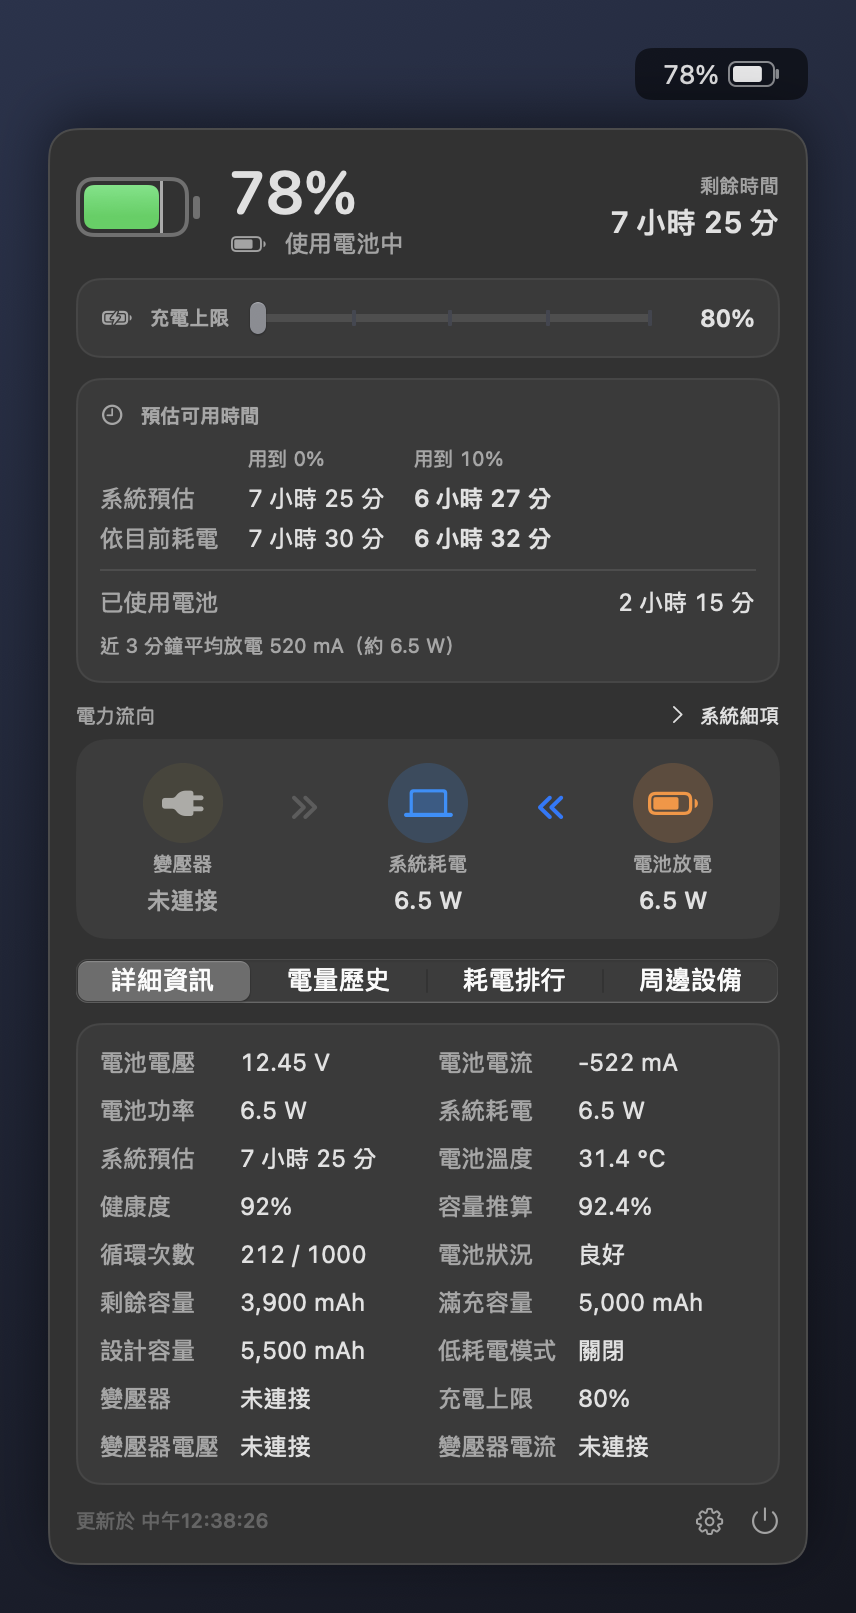
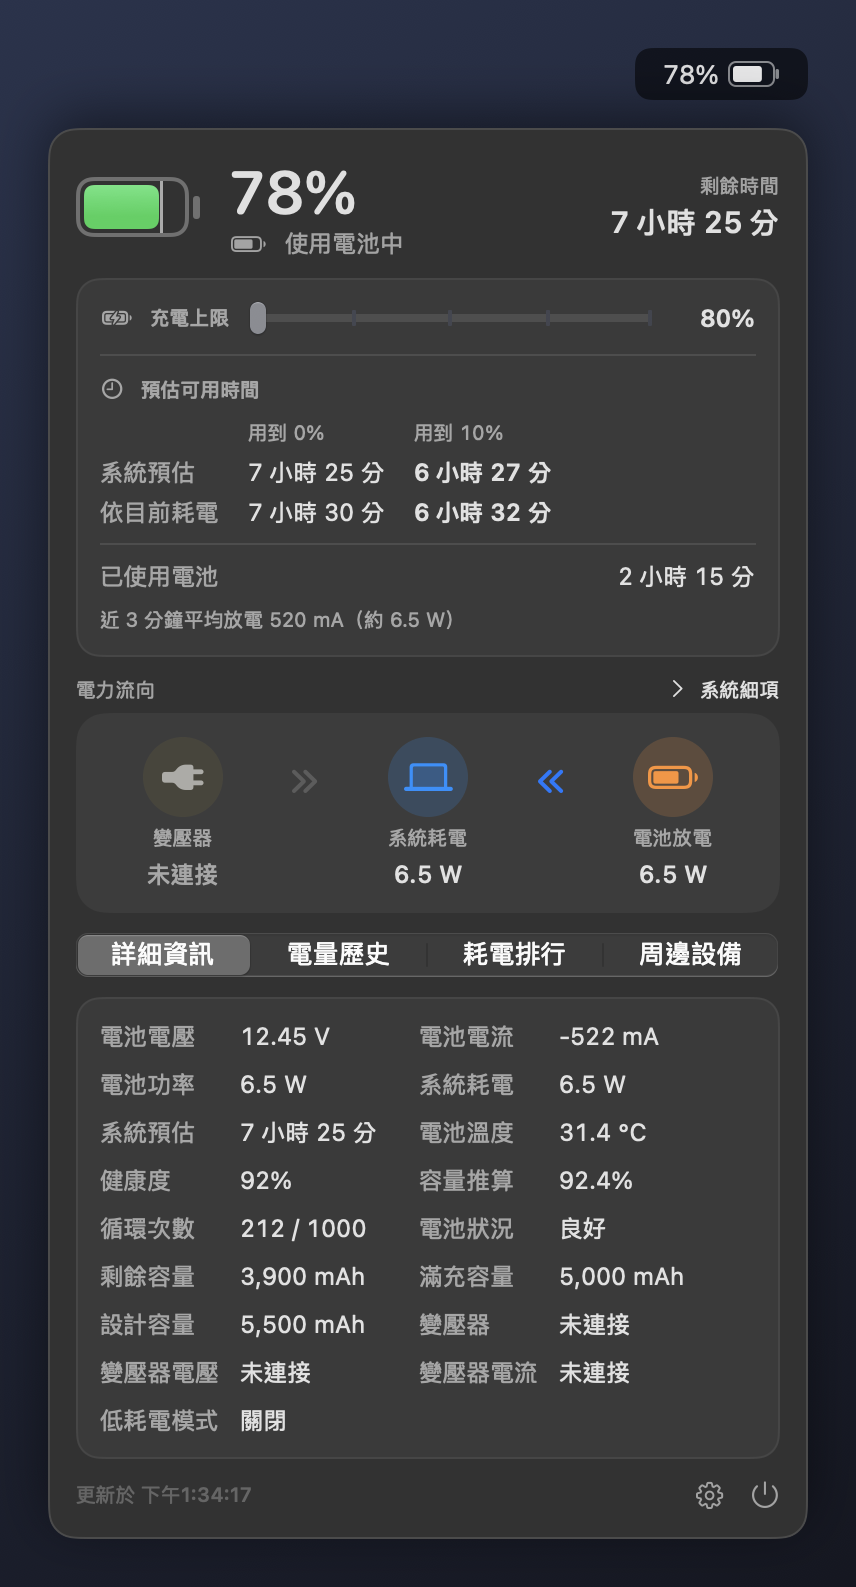
Release v1.6.1
Bump the version to 1.6.1 (build 12), add the release notes for the
edition names and the charge limit cleanup, refresh the screenshots
so the slider shows inside the info card, and list v1.6.0 among the
older versions in the README.

diff --git a/.github/release-notes/v1.6.1.md b/.github/release-notes/v1.6.1.md
@@ -1,0 +1,30 @@
+# v1.6.1：兩個版本各自的 App 名稱、充電上限不再重複
+
+兩個版本在 Finder 等處有各自的名稱，充電上限滑桿併入資訊卡，面板上的上限數值不再重複出現。使用 v1.5.0 以後的版本，到設定 → 更新按「一鍵更新」即可升級。
+
+![電池版](https://raw.githubusercontent.com/sgeric910601/macbookBatteryMonitor/v1.6.1/docs/screenshots/edition-battery.png)
+
+### 改善
+- **兩個版本有各自的 App 名稱**：電池版叫「電池監控」，系統監控版叫「電池與系統監控」，在 Finder、啟動台、Spotlight、通知與登入項目都看得出裝的是哪一版（英文系統顯示 Battery Monitor／Battery & System Monitor）。App 資料夾仍是 `macbookBatteryMonitor.app`，一鍵更新不受影響
+- **充電上限滑桿併入資訊卡**：滑桿移到「預估可用時間／電源狀態／充電預估」卡片的最上方，少一張卡片，面板更精簡
+- **充電上限不再重複**：主面板上的上限數值只顯示在滑桿上。電源狀態卡不再另列「充電上限」，詳細資訊不再列出充電上限欄位，充電預估改為「充到上限」；已達上限時右上角改為「暫停充電」（macOS 讓電池放電到上限時顯示「放電到上限」）。設定頁的「充電上限」照常顯示目前的設定；不支援滑桿的 Mac 維持原本的顯示
+- 設定頁最下方、右鍵選單的「結束」與測試通知改用各版本的名稱
+
+### 只看到電池圖示、沒有 CPU 等圖示？
+- 先確認裝的是「電池與系統監控」（系統監控版）；一鍵更新會維持同一個版本別，要換版本請手動下載另一個 zip，設定與歷史資料都會保留
+- 有瀏海的 MacBook 選單列放不下時，macOS 會把多出來的圖示藏在瀏海後面，可在設定 → 系統監控關掉用不到的模組
+
+感謝 @liaw-boy 提出把滑桿併入資訊卡的版面構想（#10）。
+
+一樣有電池版與系統監控版兩個 zip，並附 `SHA256SUMS.txt`。
+
+### 安裝
+需求：macOS 14 以上、Apple Silicon。
+
+- **已在用 v1.5.0 以後的版本**：設定 → 更新 →「一鍵更新」
+- **v1.4.1 以前或第一次安裝**：下載下方的電池版或系統監控版 zip，解壓縮後把 App 拖到「應用程式」。第一次打開時 macOS 會擋下來（App 沒有 Apple 開發者簽章），到「系統設定 → 隱私權與安全性」按「強制打開」，或在終端機執行：
+  ```bash
+  xattr -dr com.apple.quarantine /Applications/macbookBatteryMonitor.app
+  ```
+
+設定與歷史資料都會保留。
